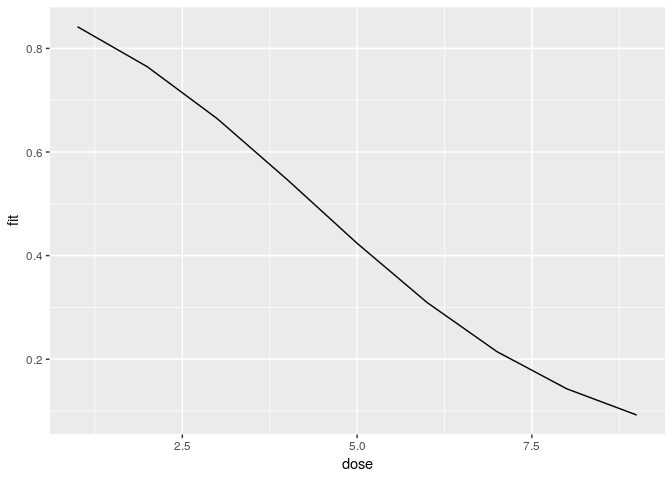
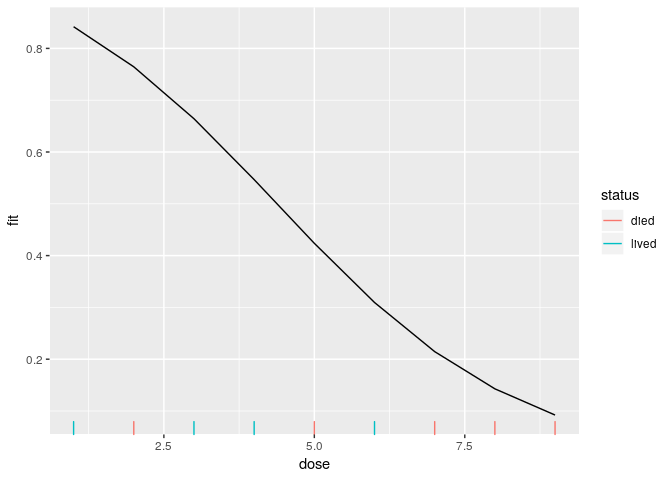
rug

diff --git a/README.md b/README.md
@@ -10,7 +10,7 @@ post)\[<https://www.fromthebottomoftheheap.net/2018/12/10/confidence-intervals-f
 library(tidyverse) # for ggplot
 ```
 
-    ## ── Attaching packages ───────────────────────────────────────────────────────────────────────────────────────────── tidyverse 1.2.1 ──
+    ## ── Attaching packages ───────────────────────────────────────────────────────────────────────────────────────────────────────────────────────────────── tidyverse 1.2.1 ──
 
     ## ✔ ggplot2 3.1.1          ✔ purrr   0.3.2     
     ## ✔ tibble  2.1.1          ✔ dplyr   0.8.0.1   
@@ -33,7 +33,7 @@ library(tidyverse) # for ggplot
 
     ## Warning: package 'forcats' was built under R version 3.5.1
 
-    ## ── Conflicts ──────────────────────────────────────────────────────────────────────────────────────────────── tidyverse_conflicts() ──
+    ## ── Conflicts ──────────────────────────────────────────────────────────────────────────────────────────────────────────────────────────────────── tidyverse_conflicts() ──
     ## ✖ dplyr::filter() masks stats::filter()
     ## ✖ dplyr::lag()    masks stats::lag()
 
@@ -231,7 +231,8 @@ plot predicted probs
 
 ``` r
 g <- ggplot(preds, aes(x = dose, y = fit)) +
-    geom_line()
+    geom_line()+
+  geom_rug(aes(colour=status), sides="b")
 g
 ```
 
